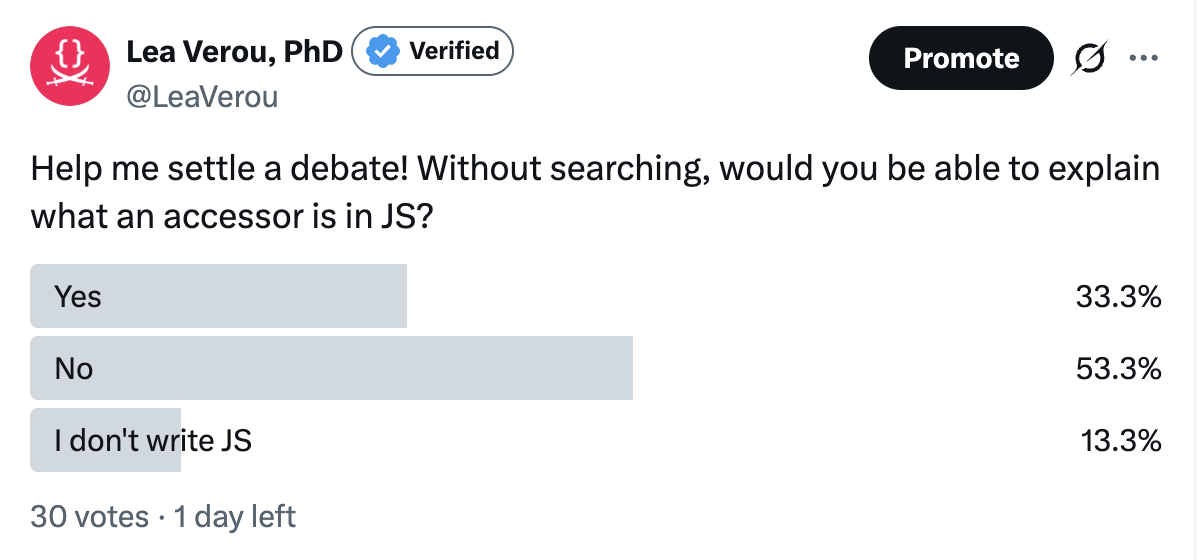
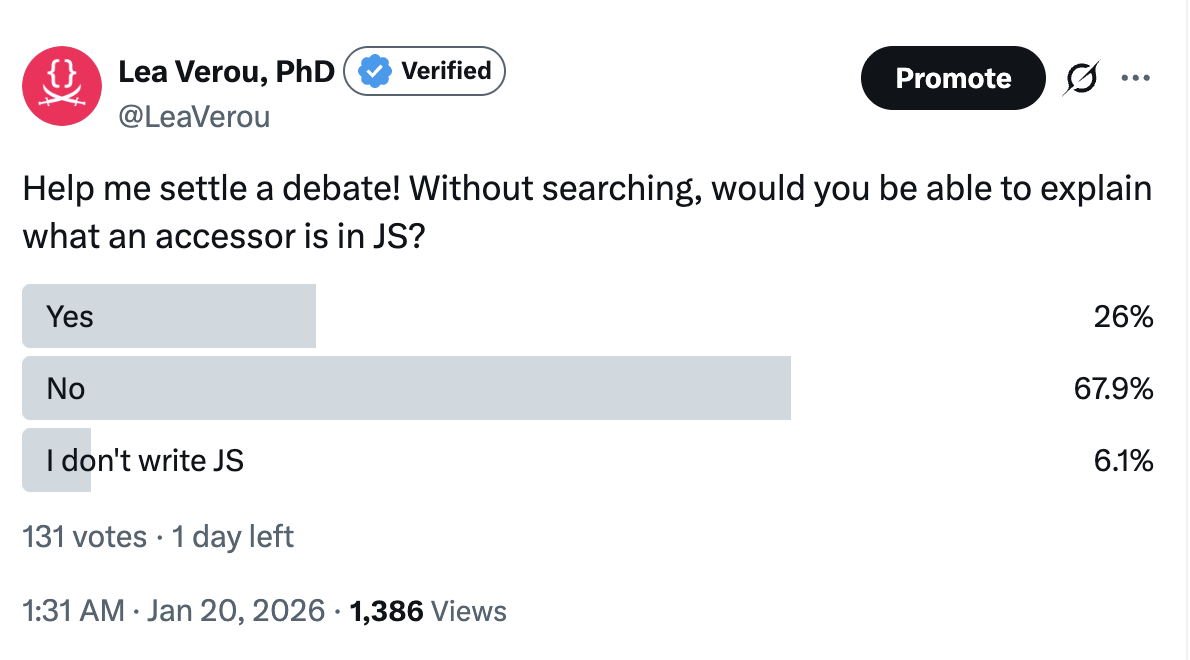
Slides

diff --git a/slides/index.html b/slides/index.html
@@ -99,36 +99,48 @@
 		<h2>Can we fix accessors while we’re at it?</h2>
 	</article>
 
-	<article class="slide md">
-		<h2>Making complex things possible <em>composably</em></h2>
+	<article class="slide columns">
+		<h2>Simple things and complex things</h2>
 
-		- We all know that good APIs make **simple things easy, and complex things possible**.
-		- Bust **most complex things are _additive_**: the simple thing + a little added functionality
-		- _How_ we make complex things possible is also important
+		<ul class="md-children">
+			<li>We all know that good APIs make **simple things easy, and complex things possible**.</li>
+			<li>But _how_ we make complex things possible matters a lot.</li>
+			<li class="delayed">**Most complex things are _additive_**: the simple thing plus a little something</li>
+		</ul>
 
+		<object data="https://lea.verou.me/blog/2025/user-effort/images/curve-alankay.svg"></object>
 	</article>
 
-	<article class="slide columns">
+	<article class="slide columns" style="text-align: center;">
 		<h2>Making complex things possible</h2>
 
 		<section>
-			<h3>✅ Extensible simple things</h3>
-			<p>Functionality can be <strong>layered</strong> on top of the simple thing</p>
-			<p>TODO: add chart</p>
-		</section>
-		<section>
 			<h3>❌ Usability cliffs</h3>
-			<p>Doing a complex thing requires <strong>recreating</strong> the simple thing from scratch</p>
+			<p>
+				Doing a complex thing requires <strong>recreating</strong> the simple thing from scratch.<br>
+				Incremental value requires <strong>disproportionate additional effort</strong>.
+			</p>
+
 			<object data="https://lea.verou.me/blog/2025/user-effort/images/curve-cliff.svg"></object>
+			<p style="position: absolute; margin: -.5em 0 0 3em">Example: <code class="language-html">&lt;video controls></code> and custom video controls</p>
+		</section>
+		<section class="delayed">
+			<h3>✅ Extensible simple things</h3>
+			<p>
+				Functionality can be <strong>layered</strong> on top of the simple thing.<br>
+				Incremental value requires <strong>proportional additional effort</strong>.
+			</p>
+			<object data="https://lea.verou.me/blog/2025/user-effort/images/curve-multiple.svg#good"></object>
+			<p style="position: absolute; margin: -.5em 0 0 3em" class="md">Example: `Intl.DateTimeFormat`</p>
 		</section>
 	</article>
 
 	<article class="slide">
-		<h2>Accessors use the second model</h2>
+		<h2>Accessors use the first model</h2>
 
 		<ul>
 			<li>Most use cases are actually backed by a "real" data property</li>
-			<li>Yet accessors require all the "plumbing" to be rebuilt before any additional functionality can be layered on top</li>
+			<li>Yet accessors require all the "plumbing" to be rebuilt before any additional functionality can be layered over it</li>
 		</ul>
 	</article>
 
@@ -253,31 +265,14 @@
 		</div>
 	</article>
 
-	<article class="slide dont-resize">
-		<h2>Is “accessor” the right framing for the simple case?</h2>
-
-		<div class="sbs center">
-			<strong style="white-space: nowrap;">Current mental model:</strong>
-			<img src="images/accessor-flowchart.svg" alt="Accessor flowchart" style="flex: 1; min-width: 0">
-		</div>
-
-		<div class="sbs center delayed">
-			<pre><code>
-				class C {
-					accessor foo = 1;
-				}
-			</code></pre>
-			<img src="images/trollface.png" alt="Trollface">
-		</div>
-	</article>
-
 	<article class="slide">
 		<h2>Is “accessor” the right framing?</h2>
 
 		<div class="sbs">
 			<div>
-				<p>For the simple case, accessors are an <strong>implementation detail</strong>.</p>
+
 				<ul>
+					<li>For the simple case, accessors are an <strong>implementation detail</strong>.</li>
 					<li> User intent is not "I want an accessor" unless there is logic.</li>
 				</ul>
 			</div>
@@ -294,22 +289,42 @@
 		</details>
 	</article>
 
-	<article class="slide">
+	<article class="slide dont-resize">
+		<h2>Is “accessor” the right framing?</h2>
+
+		<div class="sbs center">
+			<strong style="white-space: nowrap;">Current mental model:</strong>
+			<img src="images/accessor-flowchart.svg" alt="Accessor flowchart" style="flex: 1; min-width: 0">
+		</div>
+
+		<div class="sbs center delayed">
+			<pre><code>
+				class C {
+					accessor foo = 1;
+				}
+			</code></pre>
+			<img src="images/trollface.png" alt="Trollface">
+		</div>
+	</article>
+
+	<article class="slide" id="problem-statements">
 		<h2>Problem statements</h2>
 
 		<ol>
-			<li>We need a high signal-to-noise ratio way to define data properties that become part of the class shape</li>
-			<li><em>Additive</em> accessor use cases are common enough to deserve better signal-to-noise ratio</li>
+			<li>We need a high signal-to-noise ratio way to define the <strong>data properties that are part of a class' public API</strong></li>
+			<li><strong><em>Additive</em> accessor use cases</strong> are common enough to deserve better DX</li>
+			<li>There are <a href="#why-together">good reasons</a> to solve these problems together</li>
 		</ol>
 	</article>
 
-	<article class="slide">
+	<article class="slide" id="why-together">
 		<h2>Why solve them together?</h2>
 
-		<ul>
-			<li>Class public data properties often evolve into additive accessors</li>
-			<li>Solving them together productively constrains the solution space and avoids language clutter</li>
-		</ul>
+		<ol>
+			<li>Public data properties often <strong>evolve</strong> into additive accessors</li>
+			<li>Solving them together <strong>productively constrains the solution space</strong> and prevents language clutter</li>
+			<li>For this to work, it needs to become <strong>universal</strong>. For it to become universal, it needs to provide enough <strong>value</strong>.</li>
+		</ol>
 	</article>
 </section>
 
@@ -398,6 +413,29 @@
 		</ul>
 	</article>
 
+	<article class="slide">
+		<h2><span class="badge block">Prior art</span> Swift property observers</h2>
+		<pre><code class="language-swift">
+			class StepCounter {
+				var totalSteps: Int = 0 {
+					willSet(newTotalSteps) {
+						print("About to set totalSteps to \(newTotalSteps)")
+					}
+					didSet {
+						if totalSteps > oldValue {
+							print("Added \(totalSteps - oldValue) new steps")
+						}
+					}
+				}
+			}
+		</code></pre>
+		<p><span class="badge">h/t</span>Thanks</span> HE Shi-Jun for the example!</p>
+		<details class="notes md">
+			- `willSet` cannot reject or transform writes
+			- Implicit `oldValue` in `didSet`
+		</details>
+	</article>
+
 	<article class="slide" data-type="Base">
 		<header class="base">
 			<h2>Internal property</h2>
@@ -436,8 +474,9 @@
 			</code></pre>
 		</div>
 		<ul>
-			<li>This is the one we need for public class properties</li>
-			<li>Eliminate cognitive overhead of naming another property</li>
+			<li>This is the one we need for most public class properties</li>
+			<li>Eliminate boilerplate + cognitive overhead of naming another property</li>
+			<li>Values stored in an internal slot that is not accessible outside accessor methods</li>
 		</ul>
 	</article>
 
@@ -635,6 +674,22 @@
 
 	</article>
 
+<!--
+<article class="slide dont-resize">
+	<h2>Auto-upgrade regular data properties?</h2>
+
+	<pre><code>
+		const obj = {a: 1};
+		let d = Object.getOwnPropertyDescriptor(obj, "a");
+		d; // { value: 1, writable: true, enumerable: true, configurable: true }
+		d.validate = function (v) { return v >= 0; };
+		Object.defineProperty(obj, "a", d);
+		d = Object.getOwnPropertyDescriptor(obj, "a");
+		d; // { get, set, validate, enumerable: true, configurable: true }
+	</code></pre>
+</article>
+-->
+
 <article class="slide dont-resize">
 	<h2>Auto-upgrade regular data properties?</h2>
 
@@ -673,8 +728,9 @@
 			};
 		</code></pre>
 	</div>
-
 </article>
+
+
 </section>
 
 <article class="slide">
@@ -687,6 +743,9 @@
 					validate n (v) {
 						return v >= 0;
 					}
+					normalize n (v) {
+						return Number(v);
+					}
 				}
 			</code></pre>
 		</div>
@@ -697,15 +756,51 @@
 					validate (v) {
 						return v >= 0;
 					}
+					normalize (v) {
+						return Number(v);
+					}
 				} = 0;
 			}
 		</code></pre>
 	</div>
 </article>
-
-<article class="slide">
-	<h2>Can I haz Stage 1?</h2>
+<!--
+<article class="slide dont-resize">
+	<h2>Example: silent read-only</h2>
+	<div class="sbs center">
+		<pre><code>
+			class C {
+				#n = 0;
+				get n () {
+					return this.#n;
+				}
+				set n (v) {}
+			}
+		</code></pre>
+		<div class="arrow-right"></div>
+		<pre><code>
+			class C {
+				#n = 0;
+				alias n = #n;
+				validate n (v) {
+					return false;
+				}
+			}
+		</code></pre>
+	</div>
 </article>
+-->
+
+<article class="slide dont-resize" id="stage-1">
+	<p style="margin-bottom: .5em;">Recap of problem statement:</p>
+
+	<div class="sbs">
+		<fake-slide for="problem-statements"></fake-slide>
+		<fake-slide for="why-together"></fake-slide>
+	</div>
+	<h2 style="margin-top: .5em;" class="delayed">Can I haz Stage 1?</h2>
+</article>
+
 
 <footer class="slide">
 	<h2>Thank you!</h2>

diff --git a/slides/talk.css b/slides/talk.css
@@ -199,7 +199,6 @@ thead th {
 			fill: none;
 			stroke: var(--color-orange);
 			stroke-width: 10;
-
 			stroke-linecap: round;
 			stroke-linejoin: round;
 			stroke-dasharray: 0 300;
@@ -224,4 +223,28 @@ thead th {
 			}
 		}
 	}
+}
+
+@layer theme {
+	fake-slide.slide:not(#nonexistent) {
+		display: flex !important;
+	}
+}
+
+#stage-1 {
+	background: var(--color-neutral-95);
+}
+
+fake-slide {
+	position: static;
+	box-sizing: border-box;
+	padding: .5em 1em;
+	aspect-ratio: tan(atan2(100vw, 100vh));
+	font-size: 70%;
+	width: 40vw;
+	visibility: visible;
+	z-index: 200;
+	border: 1px solid var(--color-neutral-70);
+	box-shadow: 0 0 1em rgba(0, 0, 0, .1);
+	background: white;
 }

diff --git a/slides/talk.js b/slides/talk.js
@@ -9,3 +9,16 @@ Prism.languages.javascript.keyword.push({
 	// alias: "tobikeshed",
 });
 Prism.languages.javascript.keyword.push(/\baccessor\b/);
+
+
+class FakeSlide extends HTMLElement {
+	constructor() {
+		super();
+	}
+
+	connectedCallback() {
+		this.innerHTML = document.getElementById(this.getAttribute("for"))?.innerHTML;
+	}
+}
+
+customElements.define("fake-slide", FakeSlide);

diff --git a/slides/utils.css b/slides/utils.css
@@ -243,7 +243,7 @@ pre .filename {
 	box-shadow: 0 10px 1em -.6em black;
 	transform: rotate(45deg) translate(6em, var(--ribbon-offset, -2em));
 }
-
+/*
 .tobikeshed,
 .tobikeshed-children > * {
 	position: relative;
@@ -264,5 +264,5 @@ pre .filename {
 		font: bold 1.2em/1 var(--font-sans);
 		text-align: start;
 	}
-}
+} */
 
